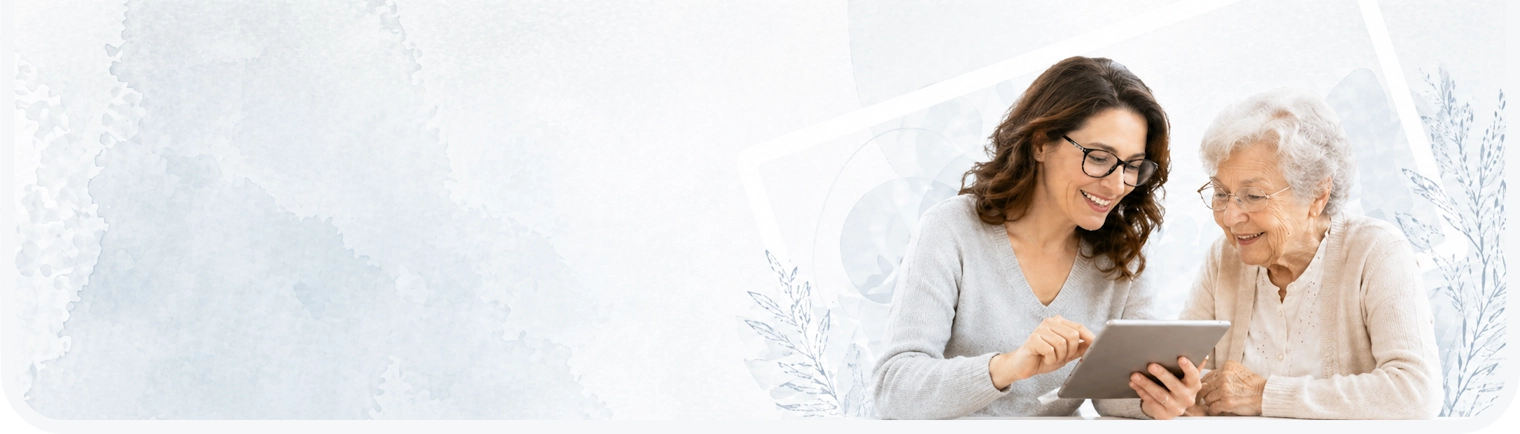
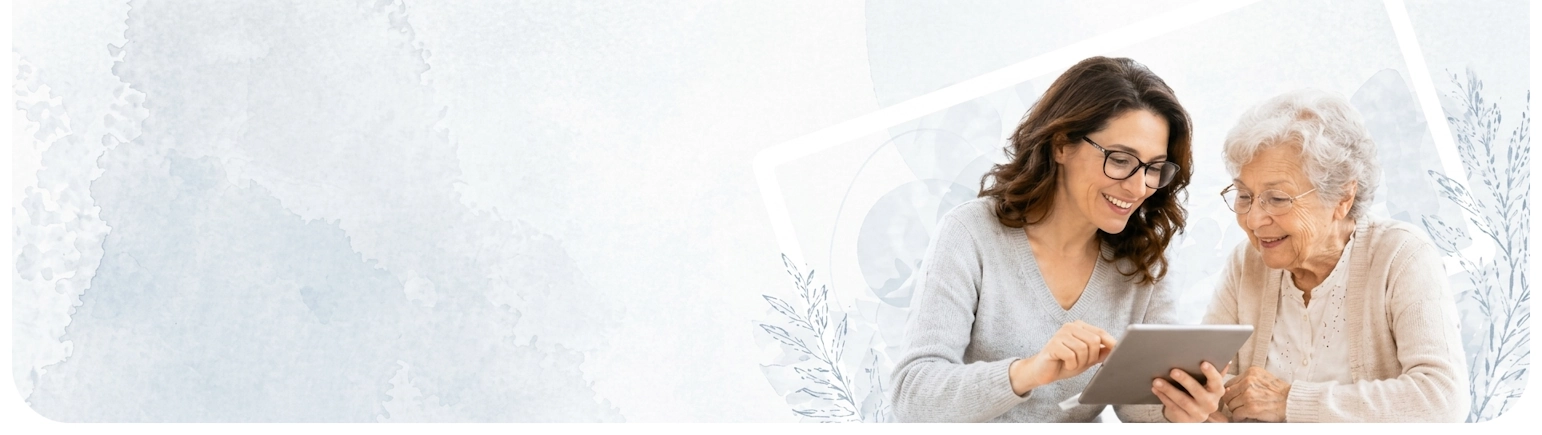
Ratgeber-Hero: Grafik zentriert in Originalgröße, Text wieder als Overlay
Made-with: Cursor

Changed region(s): [[0.4947, 0.1198, 1.0, 0.9885]]

diff --git a/components/ratgeber/RatgeberArticleHero.tsx b/components/ratgeber/RatgeberArticleHero.tsx
@@ -3,10 +3,12 @@ import Link from "next/link";
 import type { ReactNode } from "react";
 
 import { cn } from "@/lib/utils";
+
 /** Natürliche Pixelmaße von `ratgeber_blog_backgrounds.webp` (VP8X-Canvas), Anzeige 1:1. */
 export const RATGEBER_ARTICLE_HERO_BG_SRC = "/images/Ratgeber/ratgeber_blog_backgrounds.webp" as const;
 export const RATGEBER_ARTICLE_HERO_BG_WIDTH = 1520 as const;
 export const RATGEBER_ARTICLE_HERO_BG_HEIGHT = 434 as const;
+
 const DEFAULT_UPDATED_ISO = "2026-05-01" as const;
 const DEFAULT_UPDATED_DISPLAY = "01.05.2026" as const;
 const DEFAULT_CTA_HREF = "/kontakt" as const;
@@ -48,13 +50,13 @@ export type RatgeberArticleHeroProps = {
   ctaHref?: string;
   /** Optional: zweite Reihe unter dem Haupt-Button (z. B. „PDF herunterladen“, Anker-Link). */
   footer?: ReactNode;
-  /** Optional: z. B. Brotkrumen direkt unter der Kopfgrafik, vor Textkarte/H1-Inhalt */
+  /** Optional: Brotkrumen (ausgerichtet mit dem Hero, oberhalb der Grafik-Zeile) */
   belowImageSlot?: ReactNode;
 };
 
 /**
- * Gemeinsamer Ratgeber-Artikelkopf: Illustration in Originalgröße oben, danach Kicker „Ratgeber“, H1,
- * drei Vertrauens-Zeilen mit Haken, primärer CTA.
+ * Gemeinsamer Ratgeber-Artikelkopf: Grafik zentriert in Original-Pixelmaßen,
+ * Kopfbereich (Kicker bis Lead) liegt auf der Grafik wie zuvor; darunter angeklammerter Block mit Liste + CTA.
  */
 export function RatgeberArticleHero({
   title,
@@ -66,96 +68,113 @@ export function RatgeberArticleHero({
   footer,
   belowImageSlot,
 }: RatgeberArticleHeroProps) {
+  const mw = Number(RATGEBER_ARTICLE_HERO_BG_WIDTH);
+  const mh = Number(RATGEBER_ARTICLE_HERO_BG_HEIGHT);
+
   return (
     <section className="w-full pt-0" aria-labelledby="ratgeber-artikel-heading">
-      {/* Grafik exakt mit Original Pixelmaßen (horizontal scrollbar wenn Viewport schmaler) */}
-      <div className="w-full overflow-x-auto bg-white">
-        <Image
-          src={RATGEBER_ARTICLE_HERO_BG_SRC}
-          width={RATGEBER_ARTICLE_HERO_BG_WIDTH}
-          height={RATGEBER_ARTICLE_HERO_BG_HEIGHT}
-          sizes={`${RATGEBER_ARTICLE_HERO_BG_WIDTH}px`}
-          priority
-          alt=""
-          className="block h-auto max-w-none shrink-0"
-          style={{ width: RATGEBER_ARTICLE_HERO_BG_WIDTH }}
-        />
-      </div>
-
+      {/* Brotkrumen: gleicher visueller Bund wie Hero-Karte (zentrierte 1520px-Spur) */}
       {belowImageSlot ? (
-        <div className="mx-auto mt-5 w-full max-w-7xl px-4 sm:px-6 md:px-8 lg:px-[var(--ahs-page-gutter)]">{belowImageSlot}</div>
+        <div className="mx-auto mb-5 flex w-full max-w-[min(1520px,calc(100vw-2rem))] justify-center px-4 sm:px-0">
+          <div className="w-full min-w-0">{belowImageSlot}</div>
+        </div>
       ) : null}
-      <div
-        className={cn(
-          "relative isolate mx-4 mb-0 w-auto overflow-hidden rounded-[0.85rem] bg-[#FFFBF7] shadow-[0_8px_28px_-14px_rgba(15,79,104,0.18)] sm:mx-6 sm:rounded-2xl md:mx-8 lg:mx-auto lg:max-w-[min(80rem,calc(100%-5rem))] lg:rounded-2xl",
-          belowImageSlot ? "mt-6 sm:mt-8" : "mt-8 sm:mt-10",
-        )}
-      >
+
+      {/* Zentrierter Hero: Grafik immer 1520 px breit bei schmalen Screens horizontal scrollbar */}
+      <div className="flex w-full justify-center overflow-x-auto bg-transparent px-4 pb-10 sm:px-6 lg:pb-14">
         <div
-          className="pointer-events-none absolute inset-0 rounded-[inherit] bg-gradient-to-b from-white/93 via-[#fffbf8]/94 to-[#f5f9fb]"
-          aria-hidden
-        />
+          className="flex shrink-0 flex-col overflow-hidden rounded-xl bg-[#FFFBF7] shadow-[0_8px_28px_-14px_rgba(15,79,104,0.22)] ring-1 ring-black/5 sm:rounded-2xl"
+          style={{
+            width: mw,
+          }}
+        >
+          {/* Grafikschicht */}
+          <div className="relative isolate w-full shrink-0 overflow-hidden bg-white" style={{ height: mh }}>
+            <Image
+              src={RATGEBER_ARTICLE_HERO_BG_SRC}
+              width={RATGEBER_ARTICLE_HERO_BG_WIDTH}
+              height={RATGEBER_ARTICLE_HERO_BG_HEIGHT}
+              alt=""
+              priority
+              sizes={`${mw}px`}
+              className="pointer-events-none block h-auto w-full max-w-none bg-white"
+            />
+            <div
+              className="pointer-events-none absolute inset-0 bg-gradient-to-r from-white/94 via-[#fffbf7]/92 to-transparent"
+              aria-hidden
+            />
 
-        <div className="relative z-10 mx-auto w-full max-w-7xl px-5 sm:px-7 lg:px-[var(--ahs-page-gutter)]">
-          <div className="mx-auto w-full max-w-4xl py-11 sm:py-14 lg:py-16">
-            <p className="text-sm font-bold uppercase tracking-[0.16em] text-[#0F4F68]">
-              Ratgeber
-            </p>
-            {topicCategoryBadge ? (
-              <p className="mt-3">
-                <span className="inline-flex max-w-full items-center rounded-full border border-[#0F4F68]/28 bg-[#0F4F68]/06 px-3 py-1.5 text-xs font-bold leading-snug text-[#0F4F68] shadow-sm">
-                  {topicCategoryBadge}
-                </span>
-              </p>
-            ) : null}
-            <h1
-              id="ratgeber-artikel-heading"
-              className="mt-4 max-w-[min(100%,52rem)] text-balance text-3xl font-extrabold leading-tight text-[#0F4F68] sm:text-4xl sm:leading-[1.12] lg:text-[2.15rem]"
-            >
-              {title}
-            </h1>
-            {lead ? (
-              <p className="mt-4 max-w-[min(100%,52rem)] text-pretty text-lg leading-relaxed text-neutral-700 sm:text-[1.08rem] sm:leading-relaxed">
-                {lead}
-              </p>
-            ) : null}
-
-            <ul
-              className="mt-6 max-w-2xl space-y-3.5 text-pretty sm:mt-8 sm:space-y-4"
-              aria-label="Zu diesem Ratgeber-Beitrag"
-            >
-              <li className="flex gap-3 sm:items-start">
-                <RatgeberHeroCheckIcon className="mt-0.5 shrink-0 sm:mt-0" />
-                <span className="min-w-0 pt-0.5 text-base font-semibold leading-snug text-[#0F4F68] sm:text-[1.05rem] sm:leading-snug">
-                  Autor: Alltagshilfe-Süd Redaktion
-                </span>
-              </li>
-              <li className="flex gap-3 sm:items-start">
-                <RatgeberHeroCheckIcon className="mt-0.5 shrink-0 sm:mt-0" />
-                <span className="min-w-0 pt-0.5 text-base font-semibold leading-snug text-[#0F4F68] sm:text-[1.05rem] sm:leading-snug">
-                  Fachlich geprüfter Artikel von Luisa Gölder (zertifizierte Pflegeberaterin nach § 7a SGB XI)
-                </span>
-              </li>
-              <li className="flex gap-3 sm:items-start">
-                <RatgeberHeroCheckIcon className="mt-0.5 shrink-0 sm:mt-0" />
-                <span className="min-w-0 pt-0.5 text-base font-semibold leading-snug text-[#0F4F68] sm:text-[1.05rem] sm:leading-snug">
-                  Artikel auf neuestem Stand (aktualisiert{" "}
-                  <time dateTime={updatedISO}>{updatedDisplay}</time>)
-                </span>
-              </li>
-            </ul>
-
-            <div className="mt-8 sm:mt-10">
-              <Link
-                href={ctaHref}
-                className="inline-flex min-h-[3rem] max-w-[min(100%,28rem)] items-center justify-center rounded-xl bg-[#F78F2E] px-6 py-3.5 text-center text-base font-bold leading-snug text-white shadow-[0_12px_32px_-12px_rgba(247,143,46,0.55)] transition hover:opacity-[0.97] focus:outline-none focus-visible:ring-2 focus-visible:ring-[#0F4F68] focus-visible:ring-offset-2 sm:min-h-[3.25rem] sm:px-8 sm:text-lg"
-              >
-                Noch Fragen? Wir beraten Sie gerne! Jetzt Termin vereinbaren
-              </Link>
+            {/* Teaser-Text wie früher: links auf der Grafik */}
+            <div className="absolute inset-y-2 left-0 z-[2] flex w-[min(100%,clamp(280px,48vw,760px))] flex-col justify-center px-6 py-6 sm:inset-y-0 sm:w-[54%] sm:justify-center sm:px-12 sm:py-14 lg:w-[52%]">
+              <div className="max-w-xl">
+                <p className="text-sm font-bold uppercase tracking-[0.16em] text-[#0F4F68]">Ratgeber</p>
+                {topicCategoryBadge ? (
+                  <p className="mt-3">
+                    <span className="inline-flex max-w-full items-center rounded-full border border-[#0F4F68]/28 bg-[#0F4F68]/06 px-3 py-1.5 text-xs font-bold leading-snug text-[#0F4F68] shadow-sm backdrop-blur-[2px]">
+                      {topicCategoryBadge}
+                    </span>
+                  </p>
+                ) : null}
+                <h1
+                  id="ratgeber-artikel-heading"
+                  className="mt-4 text-balance text-3xl font-extrabold leading-tight text-[#0F4F68] shadow-sm sm:text-[1.85rem] sm:leading-[1.2] lg:text-[2.05rem]"
+                >
+                  {title}
+                </h1>
+                {lead ? (
+                  <p className="mt-4 max-w-[min(100%,36rem)] text-pretty text-base leading-relaxed text-neutral-900/92 sm:text-[1.0625rem]">
+                    {lead}
+                  </p>
+                ) : null}
+              </div>
             </div>
-            {footer ? (
-              <div className="mt-6 flex flex-col gap-4 sm:flex-row sm:flex-wrap sm:items-center">{footer}</div>
-            ) : null}
+          </div>
+
+          {/* Liste + Button: Fortsetzung unter der Grafik, gleiche Rasterbreite ({mw}px) */}
+          <div className="relative z-[1] border-t border-[#0F4F68]/10 bg-[#FFF9F6] px-6 py-10 sm:px-12 lg:py-14">
+            <div className="mx-auto max-w-4xl">
+              <ul
+                className="mt-2 max-w-2xl space-y-3.5 text-pretty sm:space-y-4"
+                aria-label="Zu diesem Ratgeber-Beitrag"
+              >
+                <li className="flex gap-3 sm:items-start">
+                  <RatgeberHeroCheckIcon className="mt-0.5 shrink-0 sm:mt-0" />
+                  <span className="min-w-0 pt-0.5 text-base font-semibold leading-snug text-[#0F4F68] sm:text-[1.05rem] sm:leading-snug">
+                    Autor: Alltagshilfe-Süd Redaktion
+                  </span>
+                </li>
+                <li className="flex gap-3 sm:items-start">
+                  <RatgeberHeroCheckIcon className="mt-0.5 shrink-0 sm:mt-0" />
+                  <span className="min-w-0 pt-0.5 text-base font-semibold leading-snug text-[#0F4F68] sm:text-[1.05rem] sm:leading-snug">
+                    Fachlich geprüfter Artikel von Luisa Gölder (zertifizierte Pflegeberaterin nach § 7a SGB XI)
+                  </span>
+                </li>
+                <li className="flex gap-3 sm:items-start">
+                  <RatgeberHeroCheckIcon className="mt-0.5 shrink-0 sm:mt-0" />
+                  <span className="min-w-0 pt-0.5 text-base font-semibold leading-snug text-[#0F4F68] sm:text-[1.05rem] sm:leading-snug">
+                    Artikel auf neuestem Stand (aktualisiert{" "}
+                    <time dateTime={updatedISO}>{updatedDisplay}</time>)
+                  </span>
+                </li>
+              </ul>
+
+              <div className="mt-8 sm:mt-10">
+                <Link
+                  href={ctaHref}
+                  className={cn(
+                    "inline-flex min-h-[3rem] max-w-[min(100%,28rem)] items-center justify-center rounded-xl bg-[#F78F2E]",
+                    "px-6 py-3.5 text-center text-base font-bold leading-snug text-white shadow-[0_12px_32px_-12px_rgba(247,143,46,0.55)]",
+                    "transition hover:opacity-[0.97] focus:outline-none focus-visible:ring-2 focus-visible:ring-[#0F4F68] focus-visible:ring-offset-2",
+                    "sm:min-h-[3.25rem] sm:px-8 sm:text-lg",
+                  )}
+                >
+                  Noch Fragen? Wir beraten Sie gerne! Jetzt Termin vereinbaren
+                </Link>
+              </div>
+              {footer ? (
+                <div className="mt-6 flex flex-col gap-4 sm:flex-row sm:flex-wrap sm:items-center">{footer}</div>
+              ) : null}
+            </div>
           </div>
         </div>
       </div>
